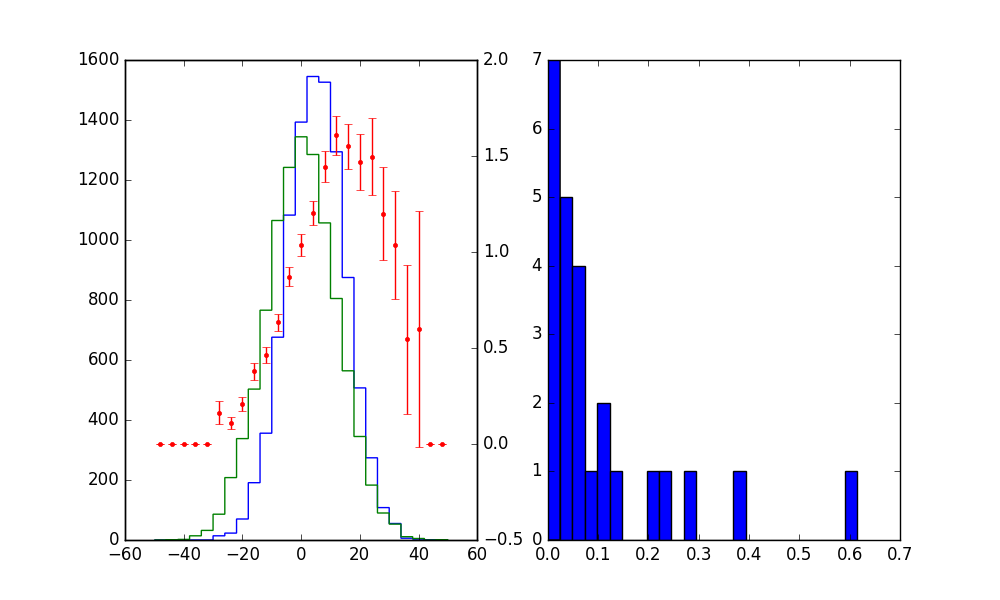
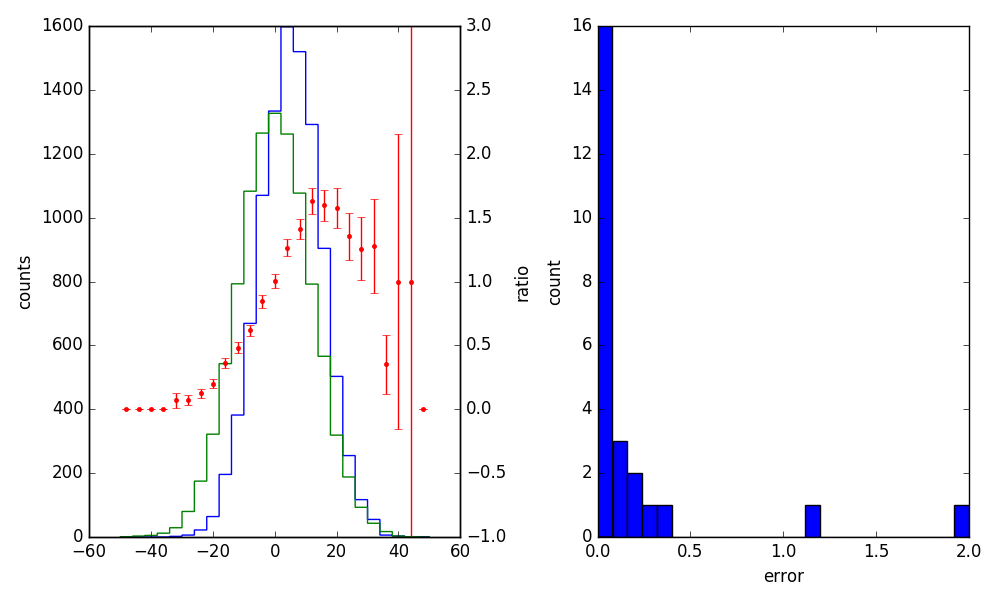
Update a snippet.

diff --git a/python/matplotlib/ratio_of_two_histograms.py b/python/matplotlib/ratio_of_two_histograms.py
@@ -9,42 +9,60 @@ import matplotlib.pyplot as plt
 
 # Build datas ###############
 
-x1 = 10 * np.random.standard_normal(10000) + 5.
-x2 = 12 * np.random.standard_normal(10000)
+x1 = np.random.normal(loc=5.0, scale=10.0, size=10000)
+x2 = np.random.normal(loc=0.0, scale=12.0, size=10000)
+
 nbins = 25
  
 fig = plt.figure(figsize=(10.,6.))
  
 # Plot two distributions on the same plot #####################################
 
-a1 = fig.add_subplot(121)
+ax1 = fig.add_subplot(121)
+ax1.set_ylabel('counts')
  
-val_of_bins_x1, edges_of_bins_x1, patches_x1 = plt.hist(x1, nbins, range=(-50,50), histtype='step')
-val_of_bins_x2, edges_of_bins_x2, patches_x2 = plt.hist(x2, nbins, range=(-50,50), histtype='step')
+val_of_bins_x1, edges_of_bins_x1, patches_x1 = plt.hist(x1, nbins, range=(-50,50), histtype='step', label="x1")
+val_of_bins_x2, edges_of_bins_x2, patches_x2 = plt.hist(x2, nbins, range=(-50,50), histtype='step', label="x2")
  
+print("bins:", edges_of_bins_x1)
+
 # Compute ratio ###############################################################
  
-# This put ratio to zero if val_of_bins_x2 is zero
-ratio =np.divide(val_of_bins_x1,
-                 val_of_bins_x2,
-                 where=(val_of_bins_x2 != 0))
+# Set ratio where val_of_bins_x2 is not zero
+
+ratio = np.divide(val_of_bins_x1,
+                  val_of_bins_x2,
+                  where=(val_of_bins_x2 != 0))
+
+print("ratio:", ratio)
  
-# Compute error on ration, null if cannot be computed
-error= np.divide(val_of_bins_x1 * np.sqrt(val_of_bins_x2) + val_of_bins_x2 * np.sqrt(val_of_bins_x1),
-                 val_of_bins_x2 * val_of_bins_x2,
-                 where=(val_of_bins_x2 != 0))
+# Compute error on ratio (null if cannot be computed)
+
+error = np.divide(val_of_bins_x1 * np.sqrt(val_of_bins_x2) + val_of_bins_x2 * np.sqrt(val_of_bins_x1),
+                  np.power(val_of_bins_x2, 2),
+                  where=(val_of_bins_x2 != 0))
+
+print("error:", error)
  
 # Add the ratio on the existing plot
-a2 = a1.twinx()
+
+ax2 = ax1.twinx()
+ax2.set_ylabel('ratio')
 
 bincenter = 0.5 * (edges_of_bins_x1[1:] + edges_of_bins_x1[:-1])
 plt.errorbar(bincenter, ratio, yerr=error, fmt='.', color='r')
  
-a3 = fig.add_subplot(122)
+# Add an histogram of errors
+
+ax3 = fig.add_subplot(122)
+ax3.set_xlabel('error')
+ax3.set_ylabel('count')
 
 plt.hist(error, nbins)
 
 # Save file ###################################################################
+
+fig.tight_layout()
 
 plt.savefig("ratio_of_two_histograms.png")
 
